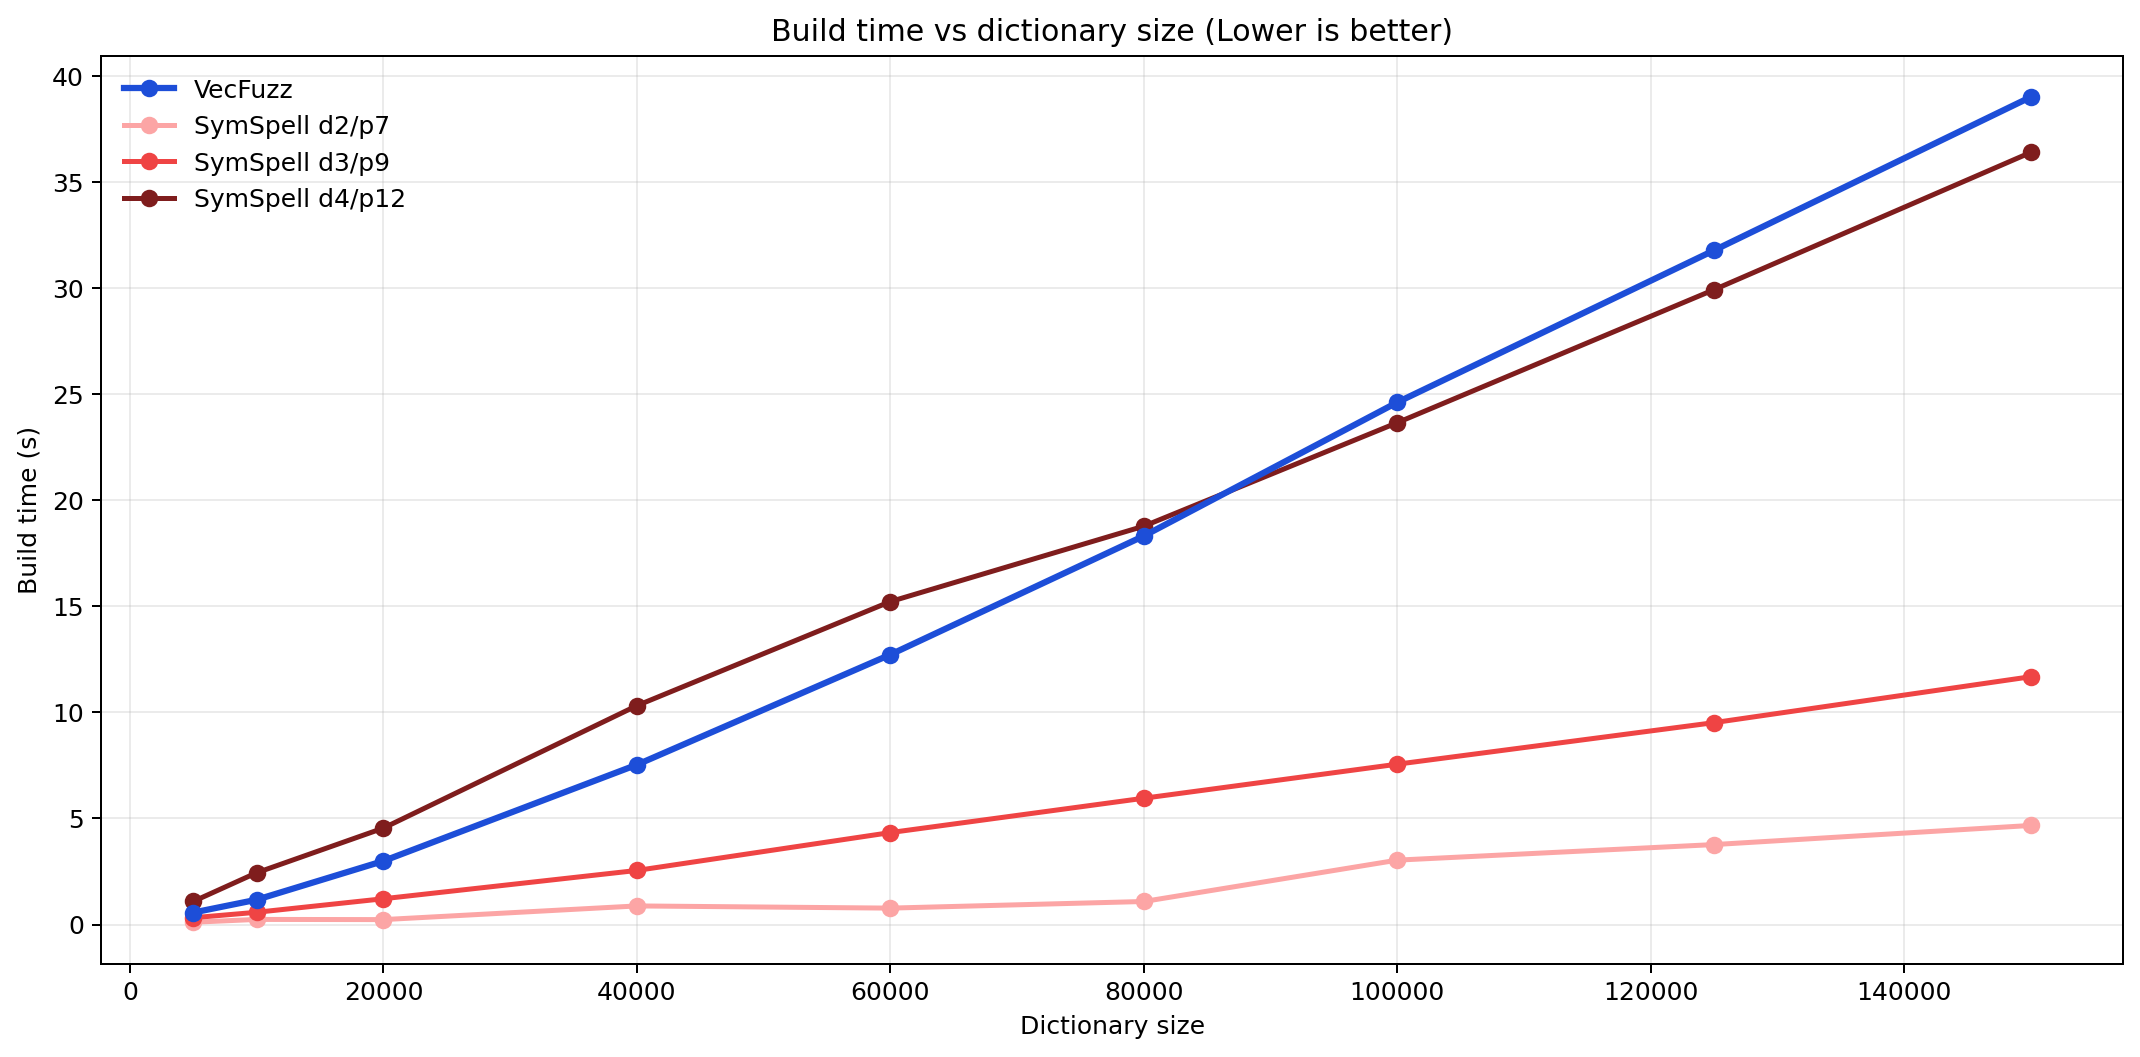
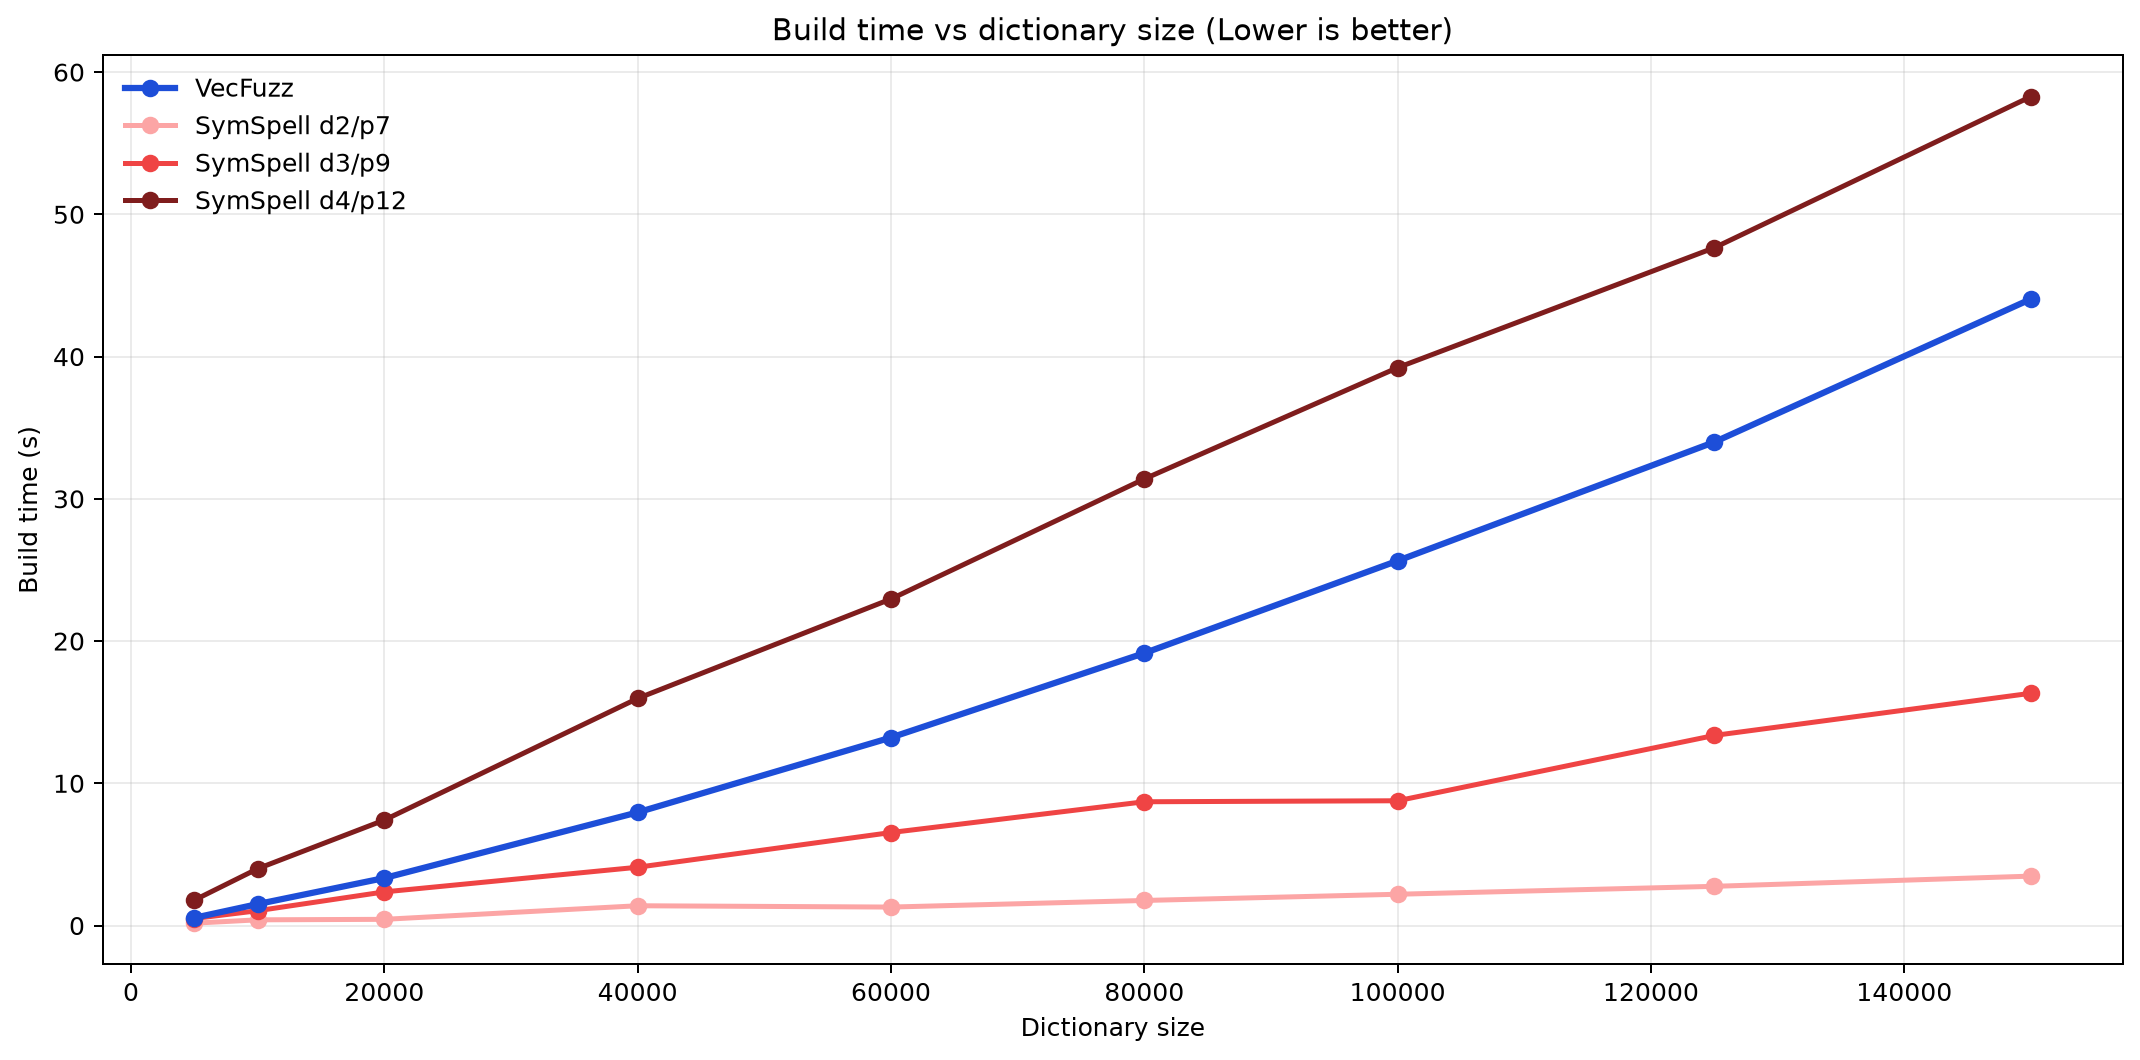
Add files via upload

diff --git a/benchmark_outputs/birkbeck_results.md b/benchmark_outputs/birkbeck_results.md
@@ -2,7 +2,7 @@
 
 | Method         | Recall@1 (%) | Recall@5 (%) | Recall@10 (%) | Recall@25 (%) | Recall@100 (%) | Duration (s) | Build (s) | Size (MB) |
 |----------------|--------------|--------------|---------------|---------------|----------------|--------------|-----------|-----------|
-| VecFuzz        | 35.08% 🥇    | 54.29% 🥇    | 61.22% 🥇     | 69.68% 🥇     | 78.88% 🥇      | 2.965s 🥇    | 27.297s   | 267.74    |
-| SymSpell d2/p7 | 34.05% 🥈    | 48.92% 🥈    | 51.94% 🥈     | 54.58% 🥈     | 57.70% 🥈      | 16.283s 🥈   | 1.570s    | 190.88  
-| RapidFuzz      | 32.64% 🥉    | 51.74% 🥈    | 58.54% 🥈     | 66.56% 🥈     | 76.67% 🥈      | 423.005s 🥉  | N/A       | N/A       |
-| Levenshtein    | 28.10%       | 46.73%       | 54.20% 🥉     | 62.64% 🥉     | 72.35% 🥉      | 458.453s     | N/A       | N/A       |
+| VecFuzz        | 35.06% 🥇    | 54.27% 🥇    | 61.20% 🥇     | 69.67% 🥇     | 78.86% 🥇      | 6.128s 🥇    | 48.687s   | 267.74    |
+| SymSpell d2/p7 | 34.05% 🥈    | 48.92% 🥉    | 51.94%        | 54.58%        | 57.70%         | 41.686s 🥈   | 3.428s    | 190.88    |
+| RapidFuzz      | 32.64% 🥉    | 51.74% 🥈    | 58.54% 🥈     | 66.56% 🥈     | 76.67% 🥈      | 698.735s 🥉  | N/A       | N/A       |
+| Levenshtein    | 28.10%       | 46.73%       | 54.20% 🥉     | 62.64% 🥉     | 72.35% 🥉      | 829.648s     | N/A       | N/A       |
